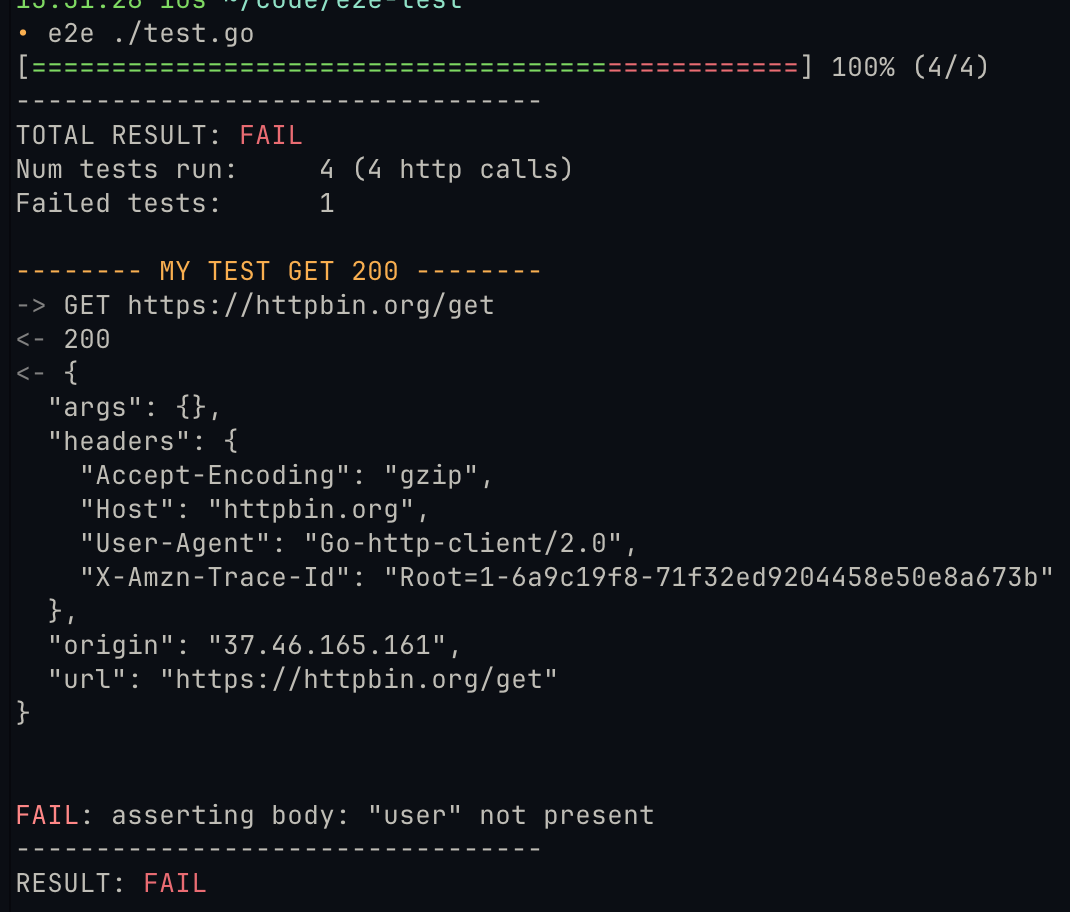
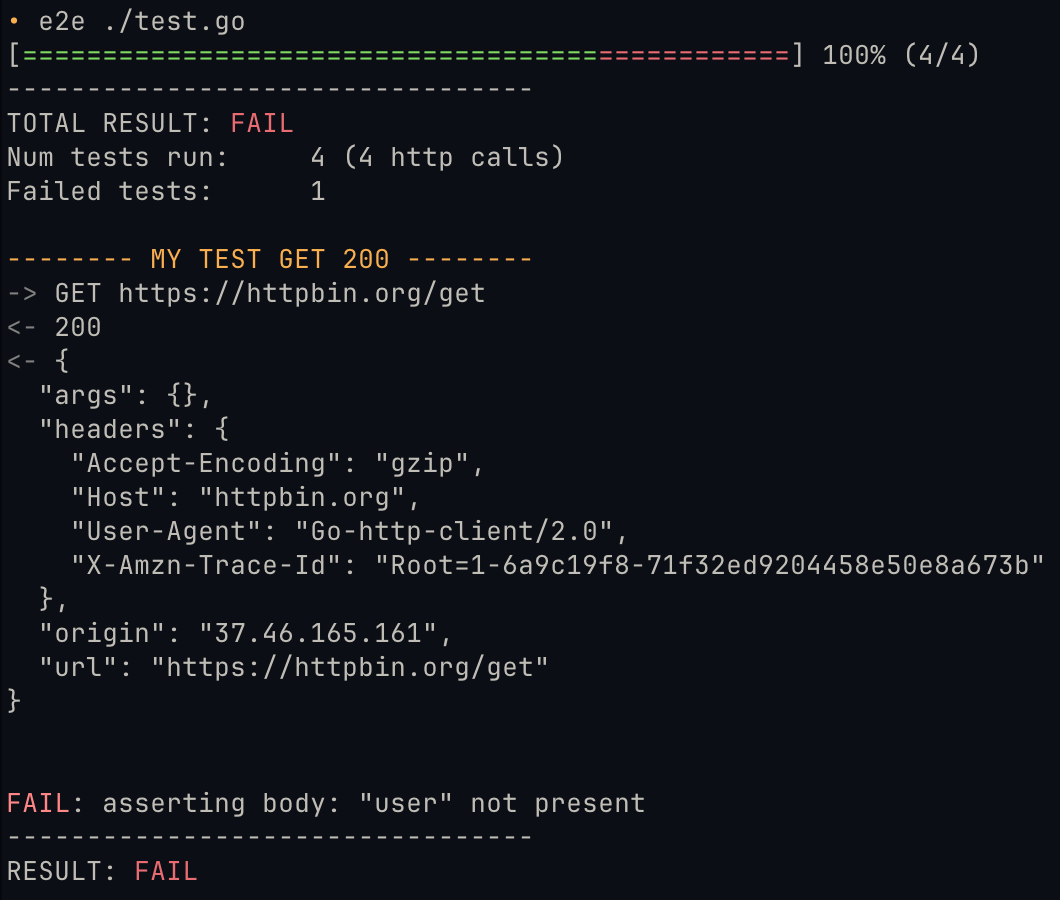
Replace example image

diff --git a/README.md b/README.md
@@ -7,6 +7,8 @@ Go-e2e is created to be a quick and concurrent facilitator of HTTP API tests.
 
 There are two parts to this project: the `e2e` library and the `e2e` tool. The library is used to define test cases that can then be run using the tool.
 
+![Test run](demo/image.png)
+
 ## Getting started
 Tests are declared in Go modules. A minimal setup is a catalogue containing a `go.mod` file and one `.go` file. That setup will be used for this setup guide.
 
@@ -79,10 +81,6 @@ mytests/
 
 ## e2e tool
 You can use the `e2e` CLI tool to run tests you have defined in your project.
-
-A test run can look something like this:
-
-![Test run](demo/image.png)
 
 ### Usage
 
